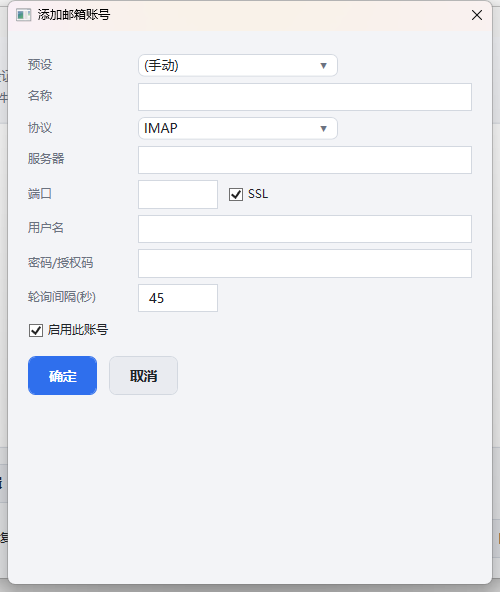
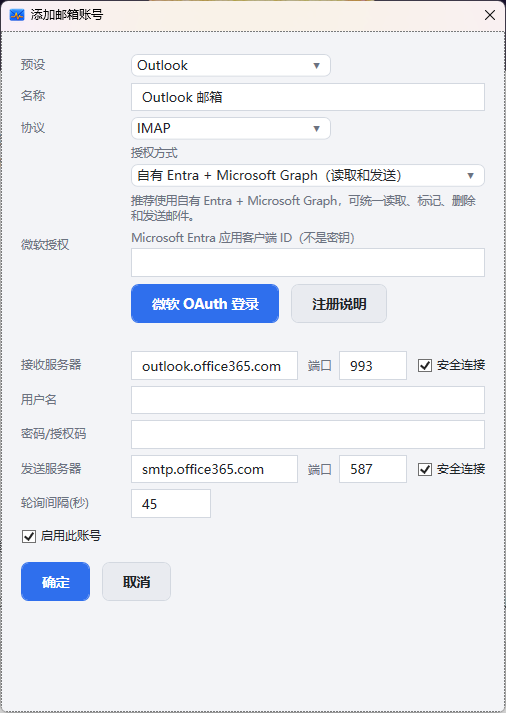
docs: update screenshots - add light main UI, each image in its own collapsed block
- Add docs/screenshots/main-light.png (light main interface)
- Remove main-dark.png; README screenshots now show light-theme only
- Each screenshot displayed individually in a <details> block, collapsed by default
- Refresh account/rules/llm-settings/toast screenshots

diff --git a/README.md b/README.md
@@ -8,13 +8,47 @@
 
 ## 📸 截图
 
-| 浅色主界面 | 深色主界面                                   |
-| ---------- | -------------------------------------------- |
-| .          | ![main-dark](docs/screenshots/main-dark.png) |
+<details>
+<summary>浅色主界面</summary>
 
-| 账号编辑                                              | 规则编辑器                                        | LLM 设置                                        | LLM 配置                                                | 验证码通知                                 |
-| ----------------------------------------------------- | ------------------------------------------------- | ----------------------------------------------- | ------------------------------------------------------- | ------------------------------------------ |
-| ![account](docs/screenshots/account-dialog-light.png) | ![rules](docs/screenshots/rules-editor-light.png) | ![llm](docs/screenshots/llm-settings-light.png) | ![llmcfg](docs/screenshots/llm-config-dialog-light.png) | ![toast](docs/screenshots/toast-light.png) |
+![浅色主界面](docs/screenshots/main-light.png)
+
+</details>
+
+<details>
+<summary>账号编辑</summary>
+
+![账号编辑](docs/screenshots/account-dialog-light.png)
+
+</details>
+
+<details>
+<summary>规则编辑器</summary>
+
+![规则编辑器](docs/screenshots/rules-editor-light.png)
+
+</details>
+
+<details>
+<summary>LLM 设置</summary>
+
+![LLM 设置](docs/screenshots/llm-settings-light.png)
+
+</details>
+
+<details>
+<summary>LLM 配置</summary>
+
+![LLM 配置](docs/screenshots/llm-config-dialog-light.png)
+
+</details>
+
+<details>
+<summary>验证码通知</summary>
+
+![验证码通知](docs/screenshots/toast-light.png)
+
+</details>
 
 ## ✨ 功能特性
 
